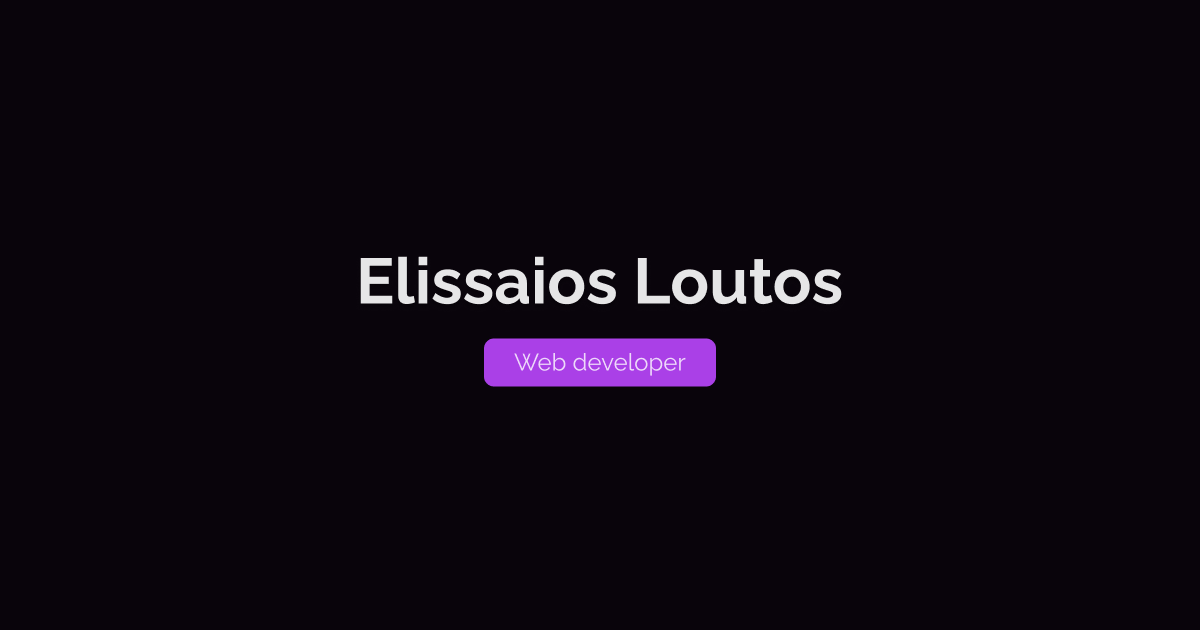
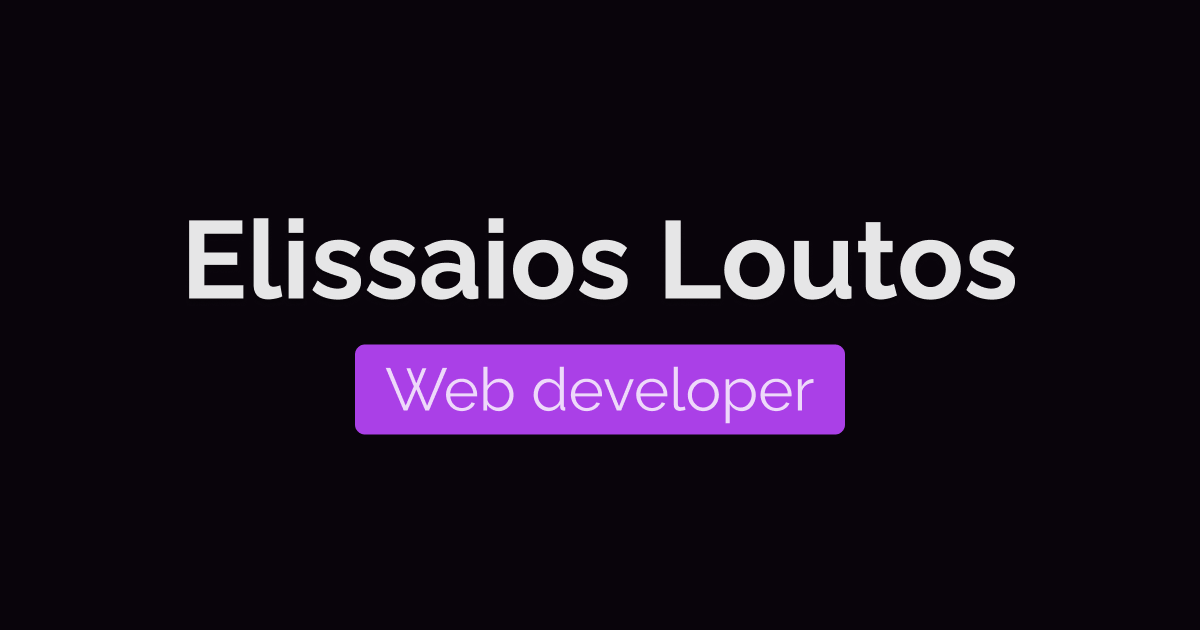
hotfix: opengraph and twitter images and 404 page
404 page

Changed region(s): [[0.1542, 0.3317, 0.8633, 0.4825], [0.2775, 0.5127, 0.7092, 0.6937]]

diff --git a/app/not-found.tsx b/app/not-found.tsx
@@ -1,0 +1,22 @@
+"use client";
+
+import { HiArrowLeft } from "react-icons/hi";
+
+import { Button } from "@/components/ui/button";
+import { Animation } from "@/components/animation";
+
+export default function NotFound() {
+  return (
+    <Animation className="flex h-[80vh] flex-col items-center justify-center p-8 text-center text-lg">
+      <div className="flex h-full w-full flex-col items-center justify-center gap-4">
+        <h1 className="text-destructive">404 error</h1>
+        <h2 className="text-3xl font-medium">Page not found</h2>
+        <p className="text-foreground/50">This page does not exist</p>
+        <Button className="gap-2" onClick={() => window.history.back()}>
+          <HiArrowLeft />
+          Go back
+        </Button>
+      </div>
+    </Animation>
+  );
+}
